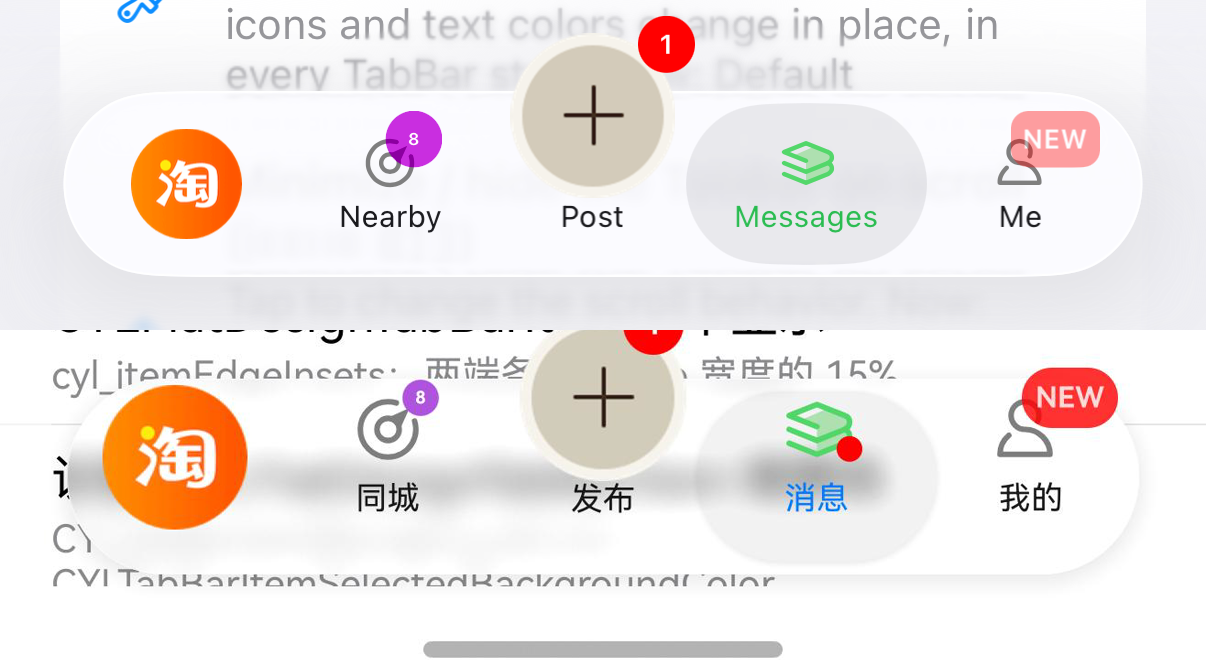
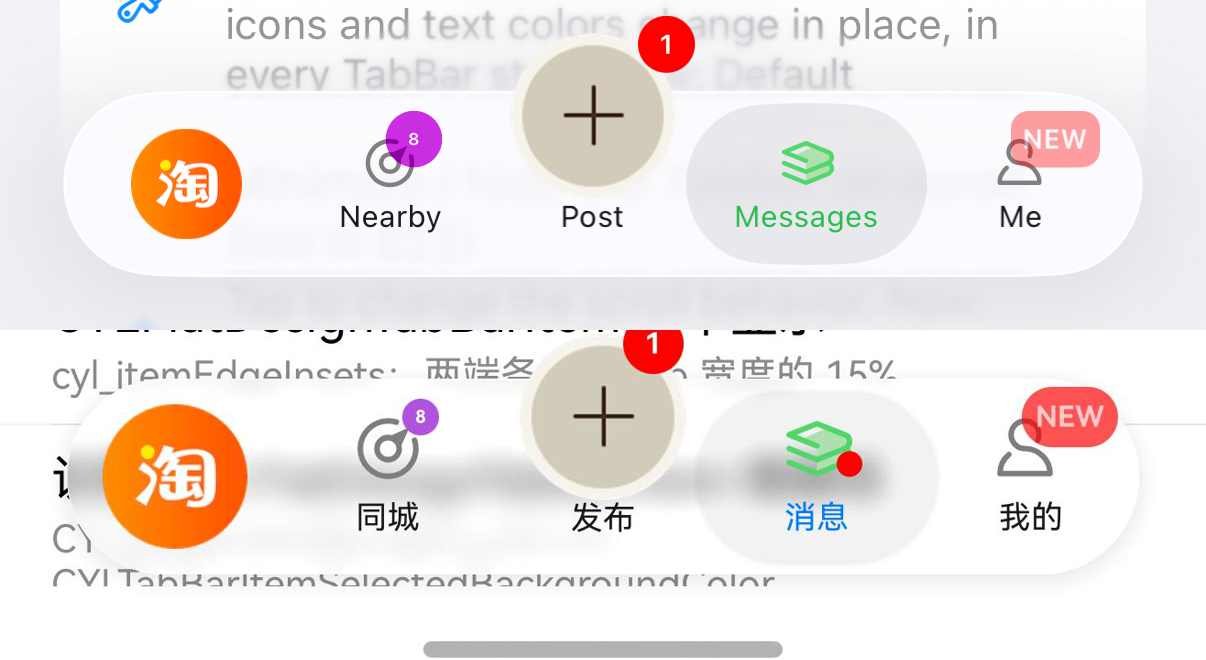
fix: 🐛 HarmonyOS Liquid Glass tab content centered in the capsule
The tab icons and titles sat about 7 vp high, out of line with the
capsule and the lens: the tabs lay out for tabBarHeight (49 vp) from the
top, while the iOS-style capsule is 61 vp high. cylGlassContentDy()
moves the tabs and the plus button's image and title down by
(capsule height - tabBarHeight) / 2, so the content is centered as on
iOS and the plus title stays aligned with the tab titles.

Measured on the Mate 70 Pro emulator (API 21, 127.0.0.1:5559): content
center 2609 px vs capsule 2614 px (was 2588); plus title 2640 vs tab
titles 2639. Issue list row 47.

By  @ChenYilong <luohanchenyilong@163.com>

diff --git a/docs/HarmonyOS-Issues.md b/docs/HarmonyOS-Issues.md
@@ -17,7 +17,7 @@
 |:---|:---|
 | 来源：模拟器截图（docs/assets/harmonyos-*.png / .jpeg，Mate 70 Pro 模拟器，HarmonyOS 6.0.1 API 21）。每发现一个问题新增一行，包括本仓库其他目录与其他仓库的问题。 | Source: emulator screenshots (docs/assets/harmonyos-*.png / .jpeg, Mate 70 Pro emulator, HarmonyOS 6.0.1 API 21). One row per issue found, including issues in other folders of this repository and in other repositories. |
 | 状态：`TODO` 未修复；`TODO need 模拟器截图验证` 已修复、待模拟器截图验证；`DONE (<截图>)` 已验证。 | Status: `TODO` not fixed; `TODO need 模拟器截图验证` fixed, waiting for an emulator screenshot; `DONE (<screenshot>)` checked. |
-| **打分：100 / 100**（46 / 46 个问题不再是 TODO；已截图验证 42）。没有 `TODO` 行即满分。 | **Score: 100 / 100** (46 of 46 issues no longer TODO; 42 checked with a screenshot). No `TODO` row left is the full score. |
+| **打分：100 / 100**（47 / 47 个问题不再是 TODO；已截图验证 43）。没有 `TODO` 行即满分。 | **Score: 100 / 100** (47 of 47 issues no longer TODO; 43 checked with a screenshot). No `TODO` row left is the full score. |
 
 | # | 状态 / Status | 范围 / Scope | 问题 / Issue | 证据 / Evidence | 原因 / Cause | 修复 / Fix |
 |:---|:---|:---|:---|:---|:---|:---|
@@ -67,6 +67,7 @@
 | 44 | DONE (harmonyos-liquid-glass-lens.png: tap 消息, the lens stretches in flight and settles on it; drag from 消息 toward 同城, the lifted lens follows the finger and the capsule swells; on release 同城 is selected and the lens settles under it; Mate 70 Pro emulator, HarmonyOS 6.0.1 (API 21), 127.0.0.1:5559, 2026-11-16) | CrossPlatform/harmonyos-cyltabbar (cyltabbar, entry) | Liquid Glass has no liquid effect: a static blurred capsule with a flat blue pill behind the selected tab | Maintainer review 2026-11-16, after 5a1a1db | Only a blur and a tint; no lens, no motion, no light; the pill was the demo's selectedBackgroundColor | CYLTabBarController (Liquid Glass): a glass lens (saturated backgroundEffect, bright rim, shadow) behind the selected tab that slides on a spring and stretches like jelly in flight; touching lifts the lens and swells the capsule; dragging moves the lens with the finger and selects the tab it ends on; vibrant capsule (backgroundEffect saturation 1.8), a specular band along the top edge and a glow along the bottom; lens and sheen are real children placed absolutely, so the tab nodes (Lottie, SVGA, Rive) are never rebuilt. The demo no longer sets the blue pill in Liquid Glass |
 | 45 | DONE (harmonyos-liquid-glass-plus-raised.png: the raised plus button, its badge 1 and the badges 8 / NEW rise above the capsule whole, with no line across them; Mate 70 Pro emulator, HarmonyOS 6.0.1 (API 21), 127.0.0.1:5559, 2026-11-16) | CrossPlatform/harmonyos-cyltabbar (cyltabbar) | Liquid Glass: the raised plus button (and badges above the bar) are cut by the capsule; expected as iOS, where the plus button rises above the bar | Maintainer report 2026-11-16; harmonyos-liquid-glass-lens.png (plus and 8 cut at the capsule's top edge) | The capsule clipped its children (clip(true)), its highlight was drawn over the tabs, and ArkUI paints the row's border over its children | No clipping (unselected slots are hidden, not clipped, when minimized; the glass effect follows the radius by itself); the highlight and the rim are a layer under the tabs (cylGlassSheen), the row has no border |
 | 46 | DONE (harmonyos-liquid-glass-ios-vs-harmonyos.png: top iOS 26 (Objective-C example, iPhone 17 Pro, ios-playback-controls-message-tab-iphone17pro-ios26.1-dc04439.png), bottom HarmonyOS (Mate 70 Pro emulator, HarmonyOS 6.0.1, API 21, 127.0.0.1:5559, 2026-11-17): same floating capsule, lens, raised plus button with an aligned title, label-colored unselected titles) | CrossPlatform/harmonyos-cyltabbar (cyltabbar, entry) | The HarmonyOS Liquid Glass must be a one-to-one copy of the iOS style (the reference project's look belongs to the example only) | Maintainer request 2026-11-17 | The library had taken the reference project's layout (b004370), then was reset to an opaque capsule below the pages (b5f9ea5); neither was the iOS look | Library Liquid Glass measured on iOS 26: floating capsule 21 vp from the sides and the bottom, 61 vp high; near-white (light) or dark grey (dark) glass with a soft shadow and a light rim; a neutral borderless lens 8 vp wider than its slot that slides, stretches, lifts and follows a drag; the raised plus button in its slot, never cut; minimize into a ball; new CYLLiquidGlassUnselectedColor (sys.color.font_primary) used by the demo, as iOS uses the label color; the demo no longer paints its own pill |
+| 47 | DONE (harmonyos-liquid-glass-ios-vs-harmonyos.png, layout dump: capsule 2507-2721 px (center 2614); icons and titles 2538-2680 (center 2609), plus title 2640 vs tab titles 2639, cover and lens centered at 2614; Mate 70 Pro emulator, HarmonyOS 6.0.1, API 21, 127.0.0.1:5559, 2026-11-17) | CrossPlatform/harmonyos-cyltabbar (cyltabbar) | Liquid Glass: the tab icons and titles are not aligned with the capsule and the lens: they sit about 7 vp high | Maintainer report 2026-11-17; layout dump: content center 2588 px vs capsule and lens center 2614 px | The tabs lay out for tabBarHeight (49 vp) from the top, while the Liquid Glass capsule is 61 vp high (iOS) | cylGlassContentDy(): tabs get a top padding of (capsule height - tabBarHeight) / 2 and the plus button's image and title positions move by the same amount, so the content is centered in the capsule and stays aligned with the plus title (as iOS) |
 
 ## 目录 / Contents
 
